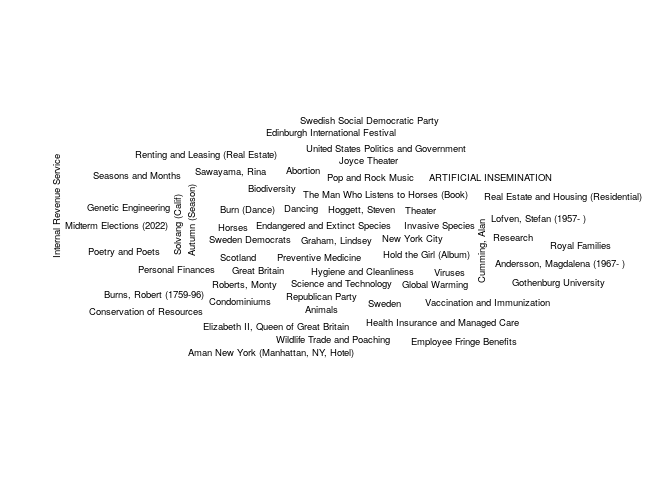
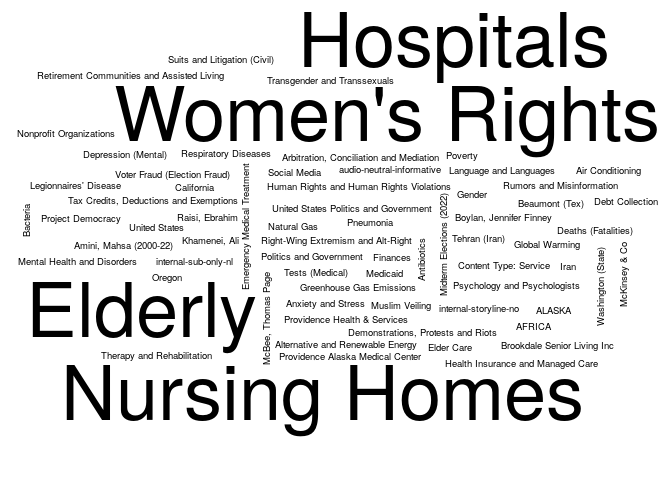
Updating the NYT report

Changed region(s): [[0.0312, 0.0312, 1.0, 0.9062]]

diff --git a/03-nytimes/README.md b/03-nytimes/README.md
@@ -5,7 +5,7 @@ The following is an example of how to use the [NYTimes
 API](https://developer.nytimes.com/) to get a list of articles related
 to a particular term. Here we are searching articles that include the
 term `"health"`, and that were published up to seven days ago since
-2022-09-19.
+2022-09-26.
 
 ``` r
 # Preparing a function to use the GET method with the NYTimes API
@@ -83,25 +83,25 @@ colnames(tab) <- c("Keyword", "# Articles")
 knitr::kable(tab, row.names = FALSE)
 ```
 
-| Keyword                              | \# Articles |
-|:-------------------------------------|------------:|
-| Content Type: Personal Profile       |          20 |
-| Content Type: Service                |          20 |
-| Coronavirus (2019-nCoV)              |          20 |
-| Abortion                             |          10 |
-| Aman New York (Manhattan, NY, Hotel) |          10 |
-| Andersson, Magdalena (1967- )        |          10 |
-| Animals                              |          10 |
-| ARTIFICIAL INSEMINATION              |          10 |
-| Autumn (Season)                      |          10 |
-| Biodiversity                         |          10 |
-| Burn (Dance)                         |          10 |
-| Burns, Robert (1759-96)              |          10 |
-| Condominiums                         |          10 |
-| Conservation of Resources            |          10 |
-| Cumming, Alan                        |          10 |
-| Dancing                              |          10 |
-| Edinburgh International Festival     |          10 |
-| Elizabeth II, Queen of Great Britain |          10 |
-| Employee Fringe Benefits             |          10 |
-| Endangered and Extinct Species       |          10 |
+| Keyword                                 | \# Articles |
+|:----------------------------------------|------------:|
+| Elderly                                 |          20 |
+| Hospitals                               |          20 |
+| Nursing Homes                           |          20 |
+| Women’s Rights                          |          20 |
+| AFRICA                                  |          10 |
+| Air Conditioning                        |          10 |
+| ALASKA                                  |          10 |
+| Alternative and Renewable Energy        |          10 |
+| Amini, Mahsa (2000-22)                  |          10 |
+| Antibiotics                             |          10 |
+| Anxiety and Stress                      |          10 |
+| Arbitration, Conciliation and Mediation |          10 |
+| audio-neutral-informative               |          10 |
+| Bacteria                                |          10 |
+| Beaumont (Tex)                          |          10 |
+| Boylan, Jennifer Finney                 |          10 |
+| Brookdale Senior Living Inc             |          10 |
+| California                              |          10 |
+| Content Type: Service                   |          10 |
+| Deaths (Fatalities)                     |          10 |
